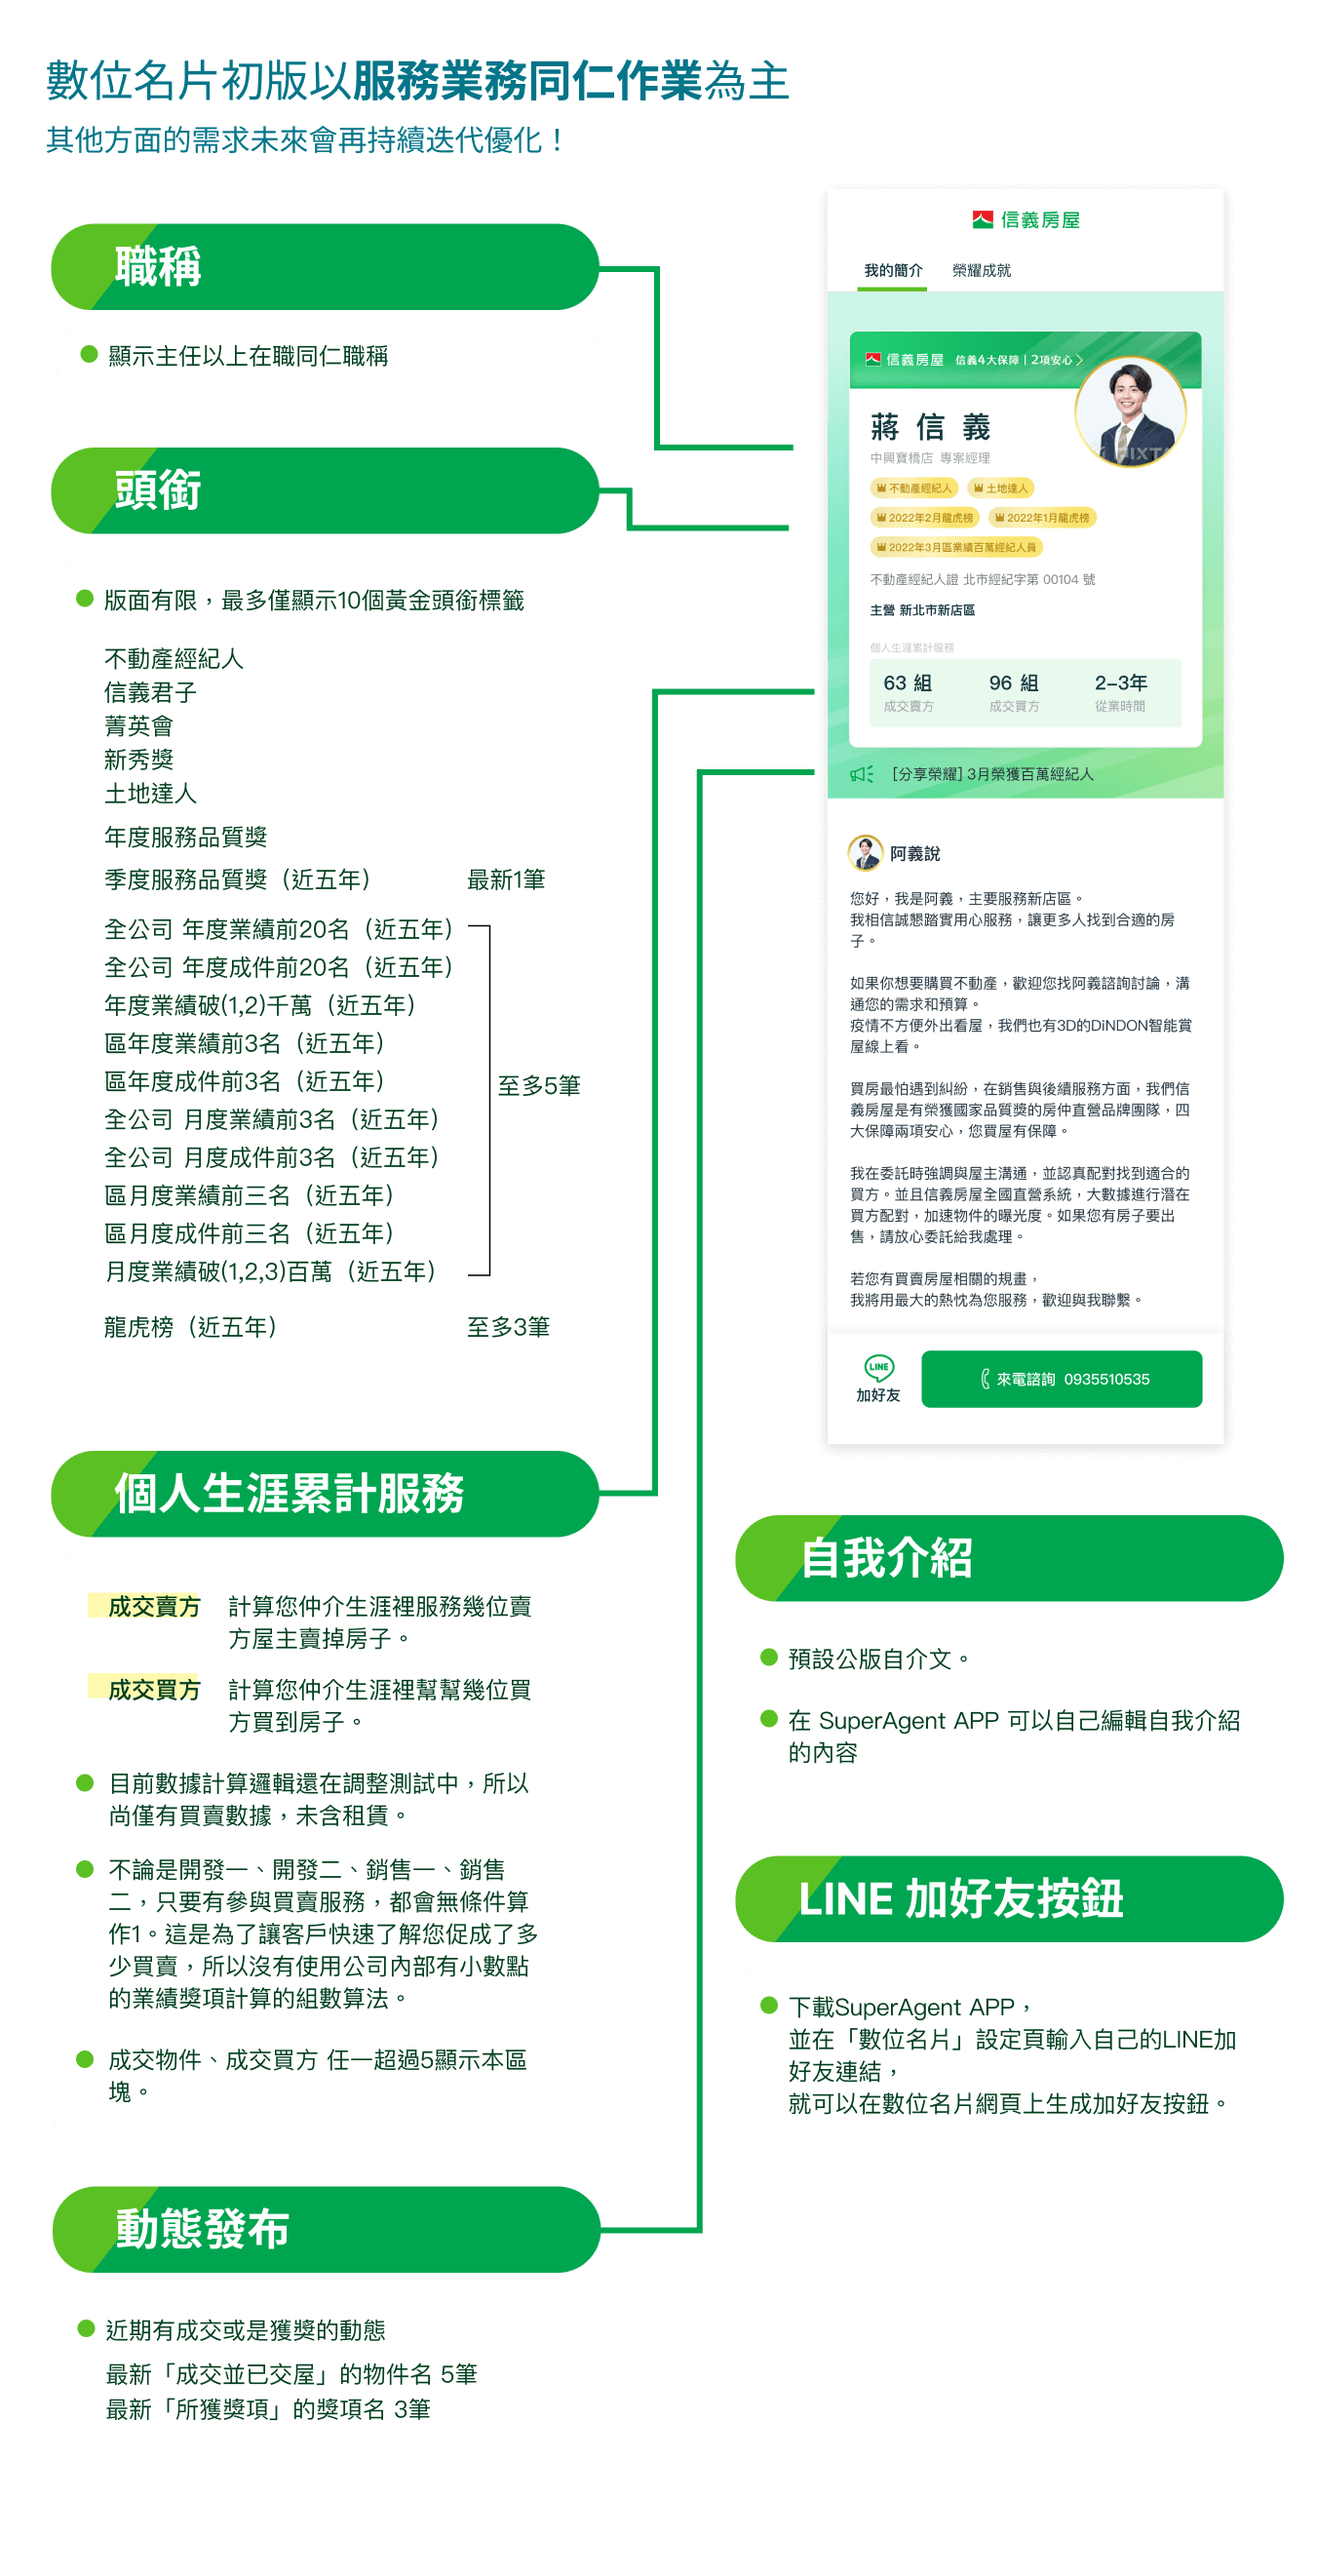
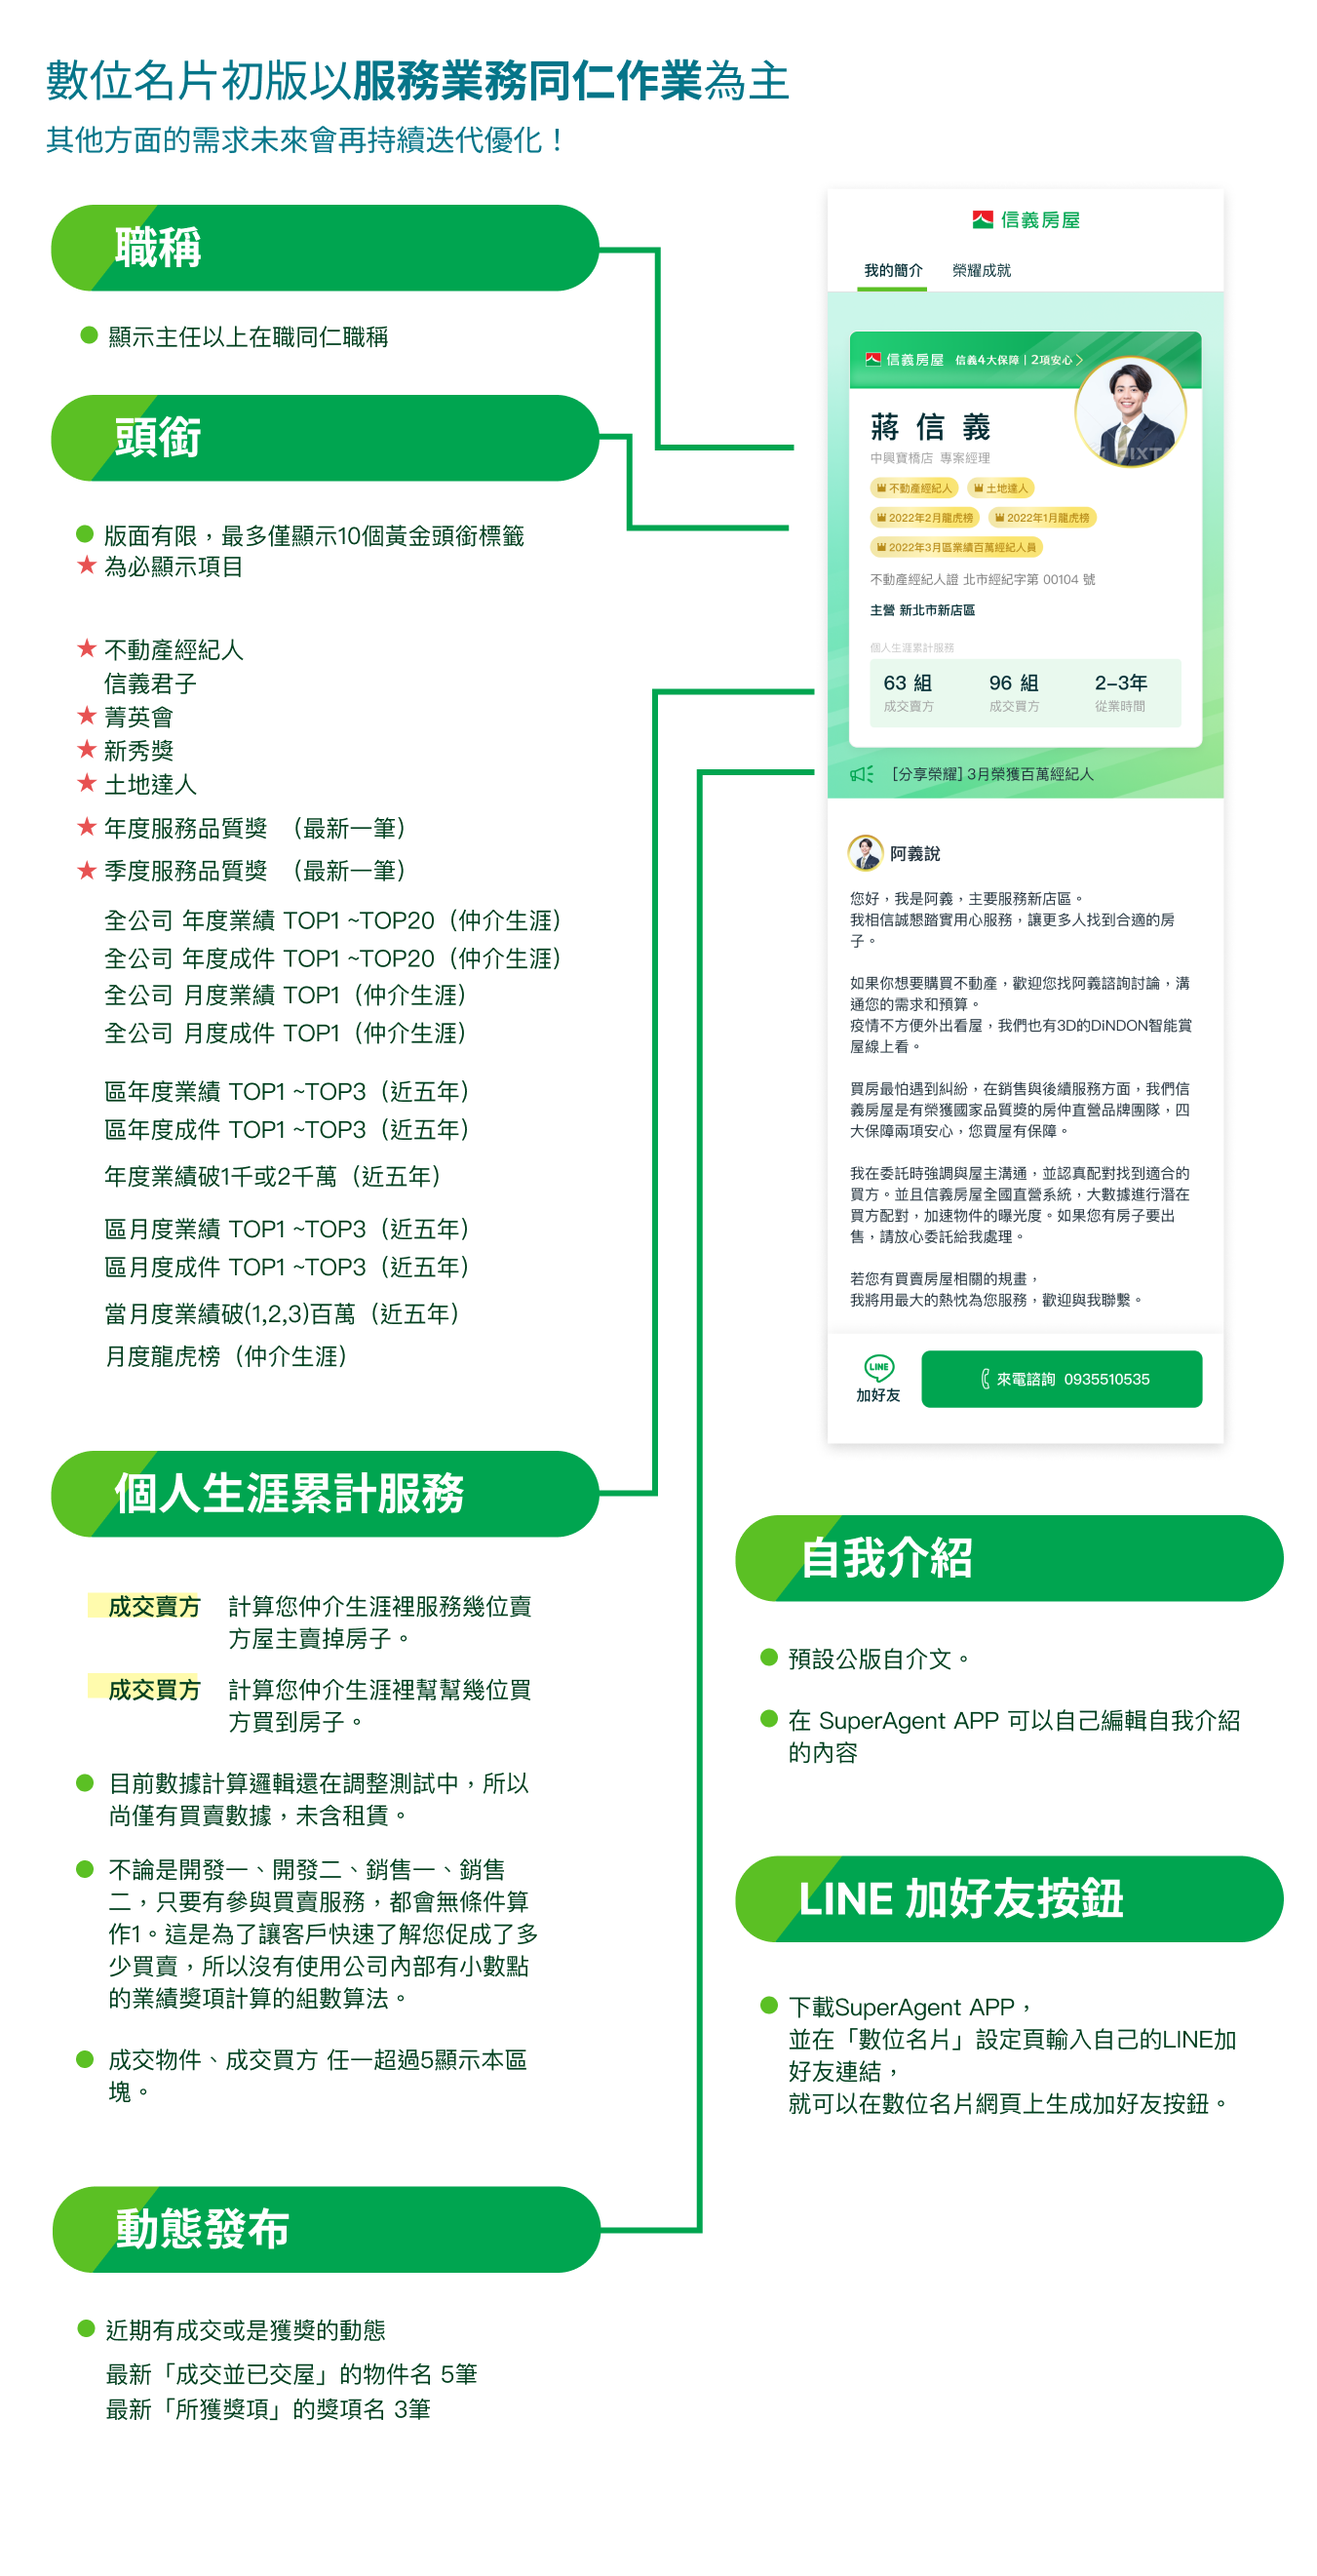
金色標籤調整與android支援說明

Changed region(s): [[0.0311, 0.0621, 0.4974, 0.5276], [0.3731, 0.4966, 0.4041, 0.5276]]

diff --git a/sa_page/templates/businesscard.html b/sa_page/templates/businesscard.html
@@ -290,8 +290,12 @@ height="0" width="0" style="display:none;visibility:hidden"></iframe></noscript>
                         <!-- <a href="#" class="blockbtns">我要回饋</a> -->
                         <!-- <a href="#" class="blockbtns">下載體驗</a> -->
                         <div class="qrcode"><img src="{% static 'assets/img/sa-download.png' %}"></div>
-                        <p class="note"><strong>[ 僅提供 iPhone 手機夥伴下載 ]</strong><br><br> 由於產品團隊採用敏捷式開發，為快速回應需求與動態調整迭代，SA發展過程中將優先鎖定iOS進行開發，請持有iPhone手機夥伴，踴躍下載搶先體驗！
-                        </p>
+                        <p class="note"><strong>[ 目前僅支援 iOS 下載 ]</strong><br><br>轉型辦公室近期推出的SuperAgent
+                            是一款協助同仁作業的<strong>實驗性APP</strong>，
+                            目前還在<strong>嘗試創新階段</strong>，初步功能發展中，
+                            在規劃設計上還有很多需要<strong>持續完備</strong>，
+                            開發團隊希望先<strong>聚焦集中火力</strong>找到對的方向，
+                            因此會以使用人數<strong>近九成的iOS系統</strong>來開發。</p>
                     </div>
                 </div>
             </div>

diff --git a/sa_page/templates/community.html b/sa_page/templates/community.html
@@ -344,8 +344,12 @@ height="0" width="0" style="display:none;visibility:hidden"></iframe></noscript>
                         <!-- <a href="#" class="blockbtns">我要回饋</a> -->
                         <!-- <a href="#" class="blockbtns">下載體驗</a> -->
                         <div class="qrcode"><img src="{% static 'assets/img/sa-download.png' %}"></div>
-                        <p class="note"><strong>[ 僅提供 iPhone 手機夥伴下載 ]</strong><br><br> 由於產品團隊採用敏捷式開發，為快速回應需求與動態調整迭代，SA發展過程中將優先鎖定iOS進行開發，請持有iPhone手機夥伴，踴躍下載搶先體驗！
-                        </p>
+                        <p class="note"><strong>[ 目前僅支援 iOS 下載 ]</strong><br><br>轉型辦公室近期推出的SuperAgent
+                            是一款協助同仁作業的<strong>實驗性APP</strong>，
+                            目前還在<strong>嘗試創新階段</strong>，初步功能發展中，
+                            在規劃設計上還有很多需要<strong>持續完備</strong>，
+                            開發團隊希望先<strong>聚焦集中火力</strong>找到對的方向，
+                            因此會以使用人數<strong>近九成的iOS系統</strong>來開發。</p>
                     </div>
                 </div>
             </div>

diff --git a/sa_page/templates/sellingprocess.html b/sa_page/templates/sellingprocess.html
@@ -341,8 +341,12 @@ height="0" width="0" style="display:none;visibility:hidden"></iframe></noscript>
                         <!-- <a href="#" class="blockbtns">我要回饋</a> -->
                         <!-- <a href="#" class="blockbtns">下載體驗</a> -->
                         <div class="qrcode"><img src="{% static 'assets/img/sa-download.png' %}"></div>
-                        <p class="note"><strong>[ 僅提供 iPhone 手機夥伴下載 ]</strong><br><br> 由於產品團隊採用敏捷式開發，為快速回應需求與動態調整迭代，SA發展過程中將優先鎖定iOS進行開發，請持有iPhone手機夥伴，踴躍下載搶先體驗！
-                        </p>
+                        <p class="note"><strong>[ 目前僅支援 iOS 下載 ]</strong><br><br>轉型辦公室近期推出的SuperAgent
+                            是一款協助同仁作業的<strong>實驗性APP</strong>，
+                            目前還在<strong>嘗試創新階段</strong>，初步功能發展中，
+                            在規劃設計上還有很多需要<strong>持續完備</strong>，
+                            開發團隊希望先<strong>聚焦集中火力</strong>找到對的方向，
+                            因此會以使用人數<strong>近九成的iOS系統</strong>來開發。</p>
                     </div>
                 </div>
             </div>

diff --git a/sa_page/templates/events.html b/sa_page/templates/events.html
@@ -233,8 +233,12 @@ height="0" width="0" style="display:none;visibility:hidden"></iframe></noscript>
                     <!-- <a href="#" class="blockbtns">我要回饋</a> -->
                     <!-- <a href="#" class="blockbtns">下載體驗</a> -->
                     <div class="qrcode"><img src="{% static 'assets/img/sa-download.png' %}"></div>
-                    <p class="note"><strong>[ 僅提供 iPhone 手機夥伴下載 ]</strong><br><br> 由於產品團隊採用敏捷式開發，為快速回應需求與動態調整迭代，SA發展過程中將優先鎖定iOS進行開發，請持有iPhone手機夥伴，踴躍下載搶先體驗！
-                    </p>
+                    <p class="note"><strong>[ 目前僅支援 iOS 下載 ]</strong><br><br>轉型辦公室近期推出的SuperAgent
+                        是一款協助同仁作業的<strong>實驗性APP</strong>，
+                        目前還在<strong>嘗試創新階段</strong>，初步功能發展中，
+                        在規劃設計上還有很多需要<strong>持續完備</strong>，
+                        開發團隊希望先<strong>聚焦集中火力</strong>找到對的方向，
+                        因此會以使用人數<strong>近九成的iOS系統</strong>來開發。</p>
                 </div>
             </div>
         </div>

diff --git a/sa_page/templates/voting.html b/sa_page/templates/voting.html
@@ -291,8 +291,12 @@ height="0" width="0" style="display:none;visibility:hidden"></iframe></noscript>
                     <!-- <a href="#" class="blockbtns">我要回饋</a> -->
                     <!-- <a href="#" class="blockbtns">下載體驗</a> -->
                     <div class="qrcode"><img src="{% static 'assets/img/sa-download.png' %}"></div>
-                    <p class="note"><strong>[ 僅提供 iPhone 手機夥伴下載 ]</strong><br><br> 由於產品團隊採用敏捷式開發，為快速回應需求與動態調整迭代，SA發展過程中將優先鎖定iOS進行開發，請持有iPhone手機夥伴，踴躍下載搶先體驗！
-                    </p>
+                    <p class="note"><strong>[ 目前僅支援 iOS 下載 ]</strong><br><br>轉型辦公室近期推出的SuperAgent
+                        是一款協助同仁作業的<strong>實驗性APP</strong>，
+                        目前還在<strong>嘗試創新階段</strong>，初步功能發展中，
+                        在規劃設計上還有很多需要<strong>持續完備</strong>，
+                        開發團隊希望先<strong>聚焦集中火力</strong>找到對的方向，
+                        因此會以使用人數<strong>近九成的iOS系統</strong>來開發。</p>
                 </div>
             </div>
         </div>

diff --git a/sa_page/templates/elements/fixeddownloadblock.html b/sa_page/templates/elements/fixeddownloadblock.html
@@ -21,7 +21,11 @@
                     <!-- <a href="#" class="blockbtns">我要回饋</a> -->
                     <!-- <a href="#" class="blockbtns">下載體驗</a> -->
                     <div class="qrcode"><img src="{% static 'assets/img/sa-download.png' %}"></div>
-                    <p class="note"><strong>[ 僅提供 iPhone 手機夥伴下載 ]</strong><br><br> 由於產品團隊採用敏捷式開發，為快速回應需求與動態調整迭代，SA發展過程中將優先鎖定iOS進行開發，請持有iPhone手機夥伴，踴躍下載搶先體驗！
-                    </p>
+                    <p class="note"><strong>[ 目前僅支援 iOS 下載 ]</strong><br><br>轉型辦公室近期推出的SuperAgent
+                        是一款協助同仁作業的<strong>實驗性APP</strong>，
+                        目前還在<strong>嘗試創新階段</strong>，初步功能發展中，
+                        在規劃設計上還有很多需要<strong>持續完備</strong>，
+                        開發團隊希望先<strong>聚焦集中火力</strong>找到對的方向，
+                        因此會以使用人數<strong>近九成的iOS系統</strong>來開發。</p>
                 </div>
             </div>
